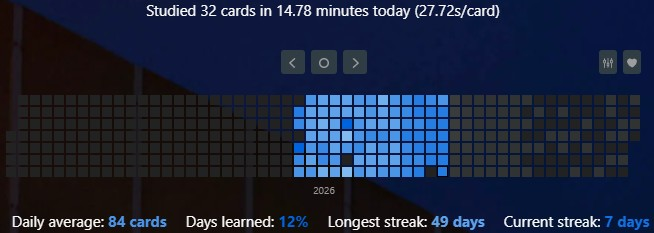
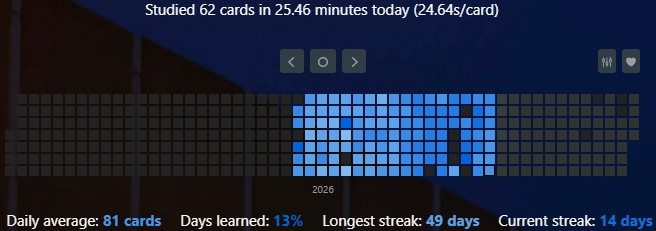
update streak

diff --git a/README.md b/README.md
@@ -14,7 +14,7 @@ I keep three daily habits to counter out-sourcing thinking and stay sharp:
 - **Anki** - ~1h/day A spaced repetition memorization software, which already helped me succeed in medschool. I'm currently creating a deck that aims to be "like a basic vocabulary for Rust". Additionally, I recreated Neetcode 150 questions as Rust cards. I aim for 9 cards/day from the basic vocabulary and 1 card/day from the Neetcode questions.
 - **Zen Coding** - when time allows, fully offline, no internet, standard library only. Currently in Rust, since low-level languages and secure code matter more as AI-generated code grows. (Currently snake in Rust to learn the Elm-architecture with `iced`).
 
-The Anki-Progress will be posted here in irregular intervals (last updated 2026-09-13):
+The Anki-Progress will be posted here in irregular intervals (last updated 2026-10-11):
 
 <img src="anki_streak.jpg" width="60%"/>
 
